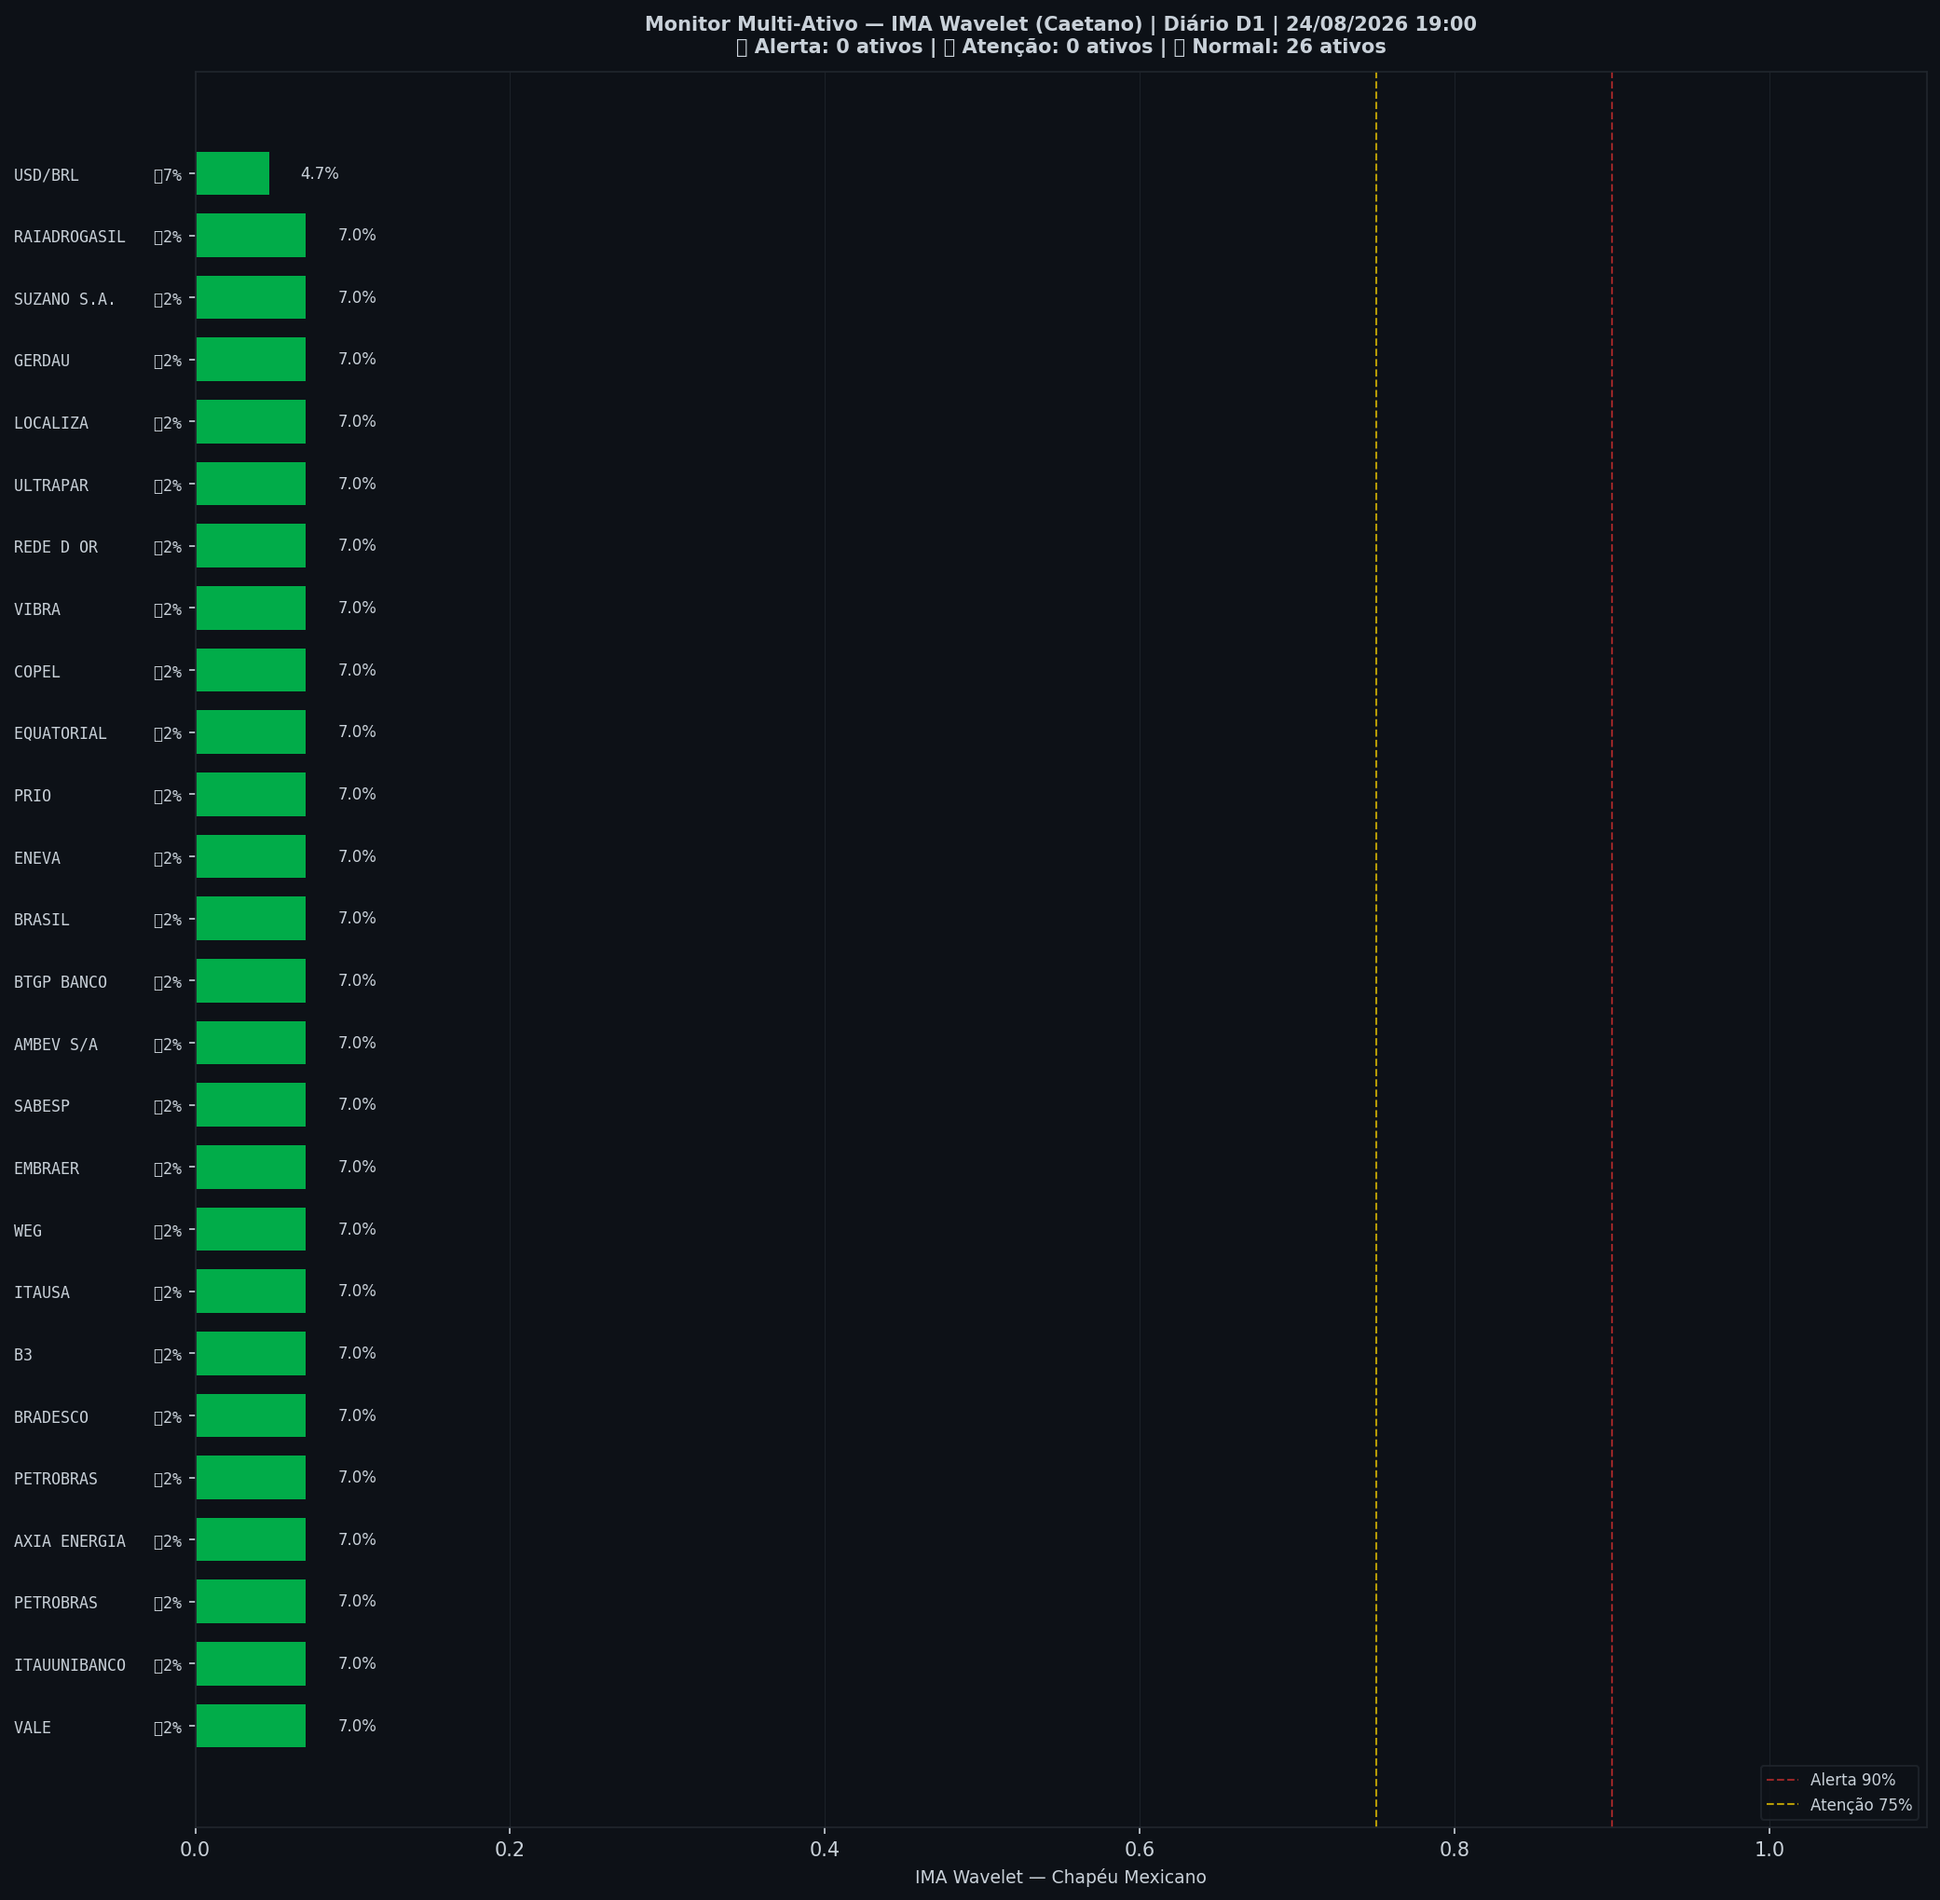
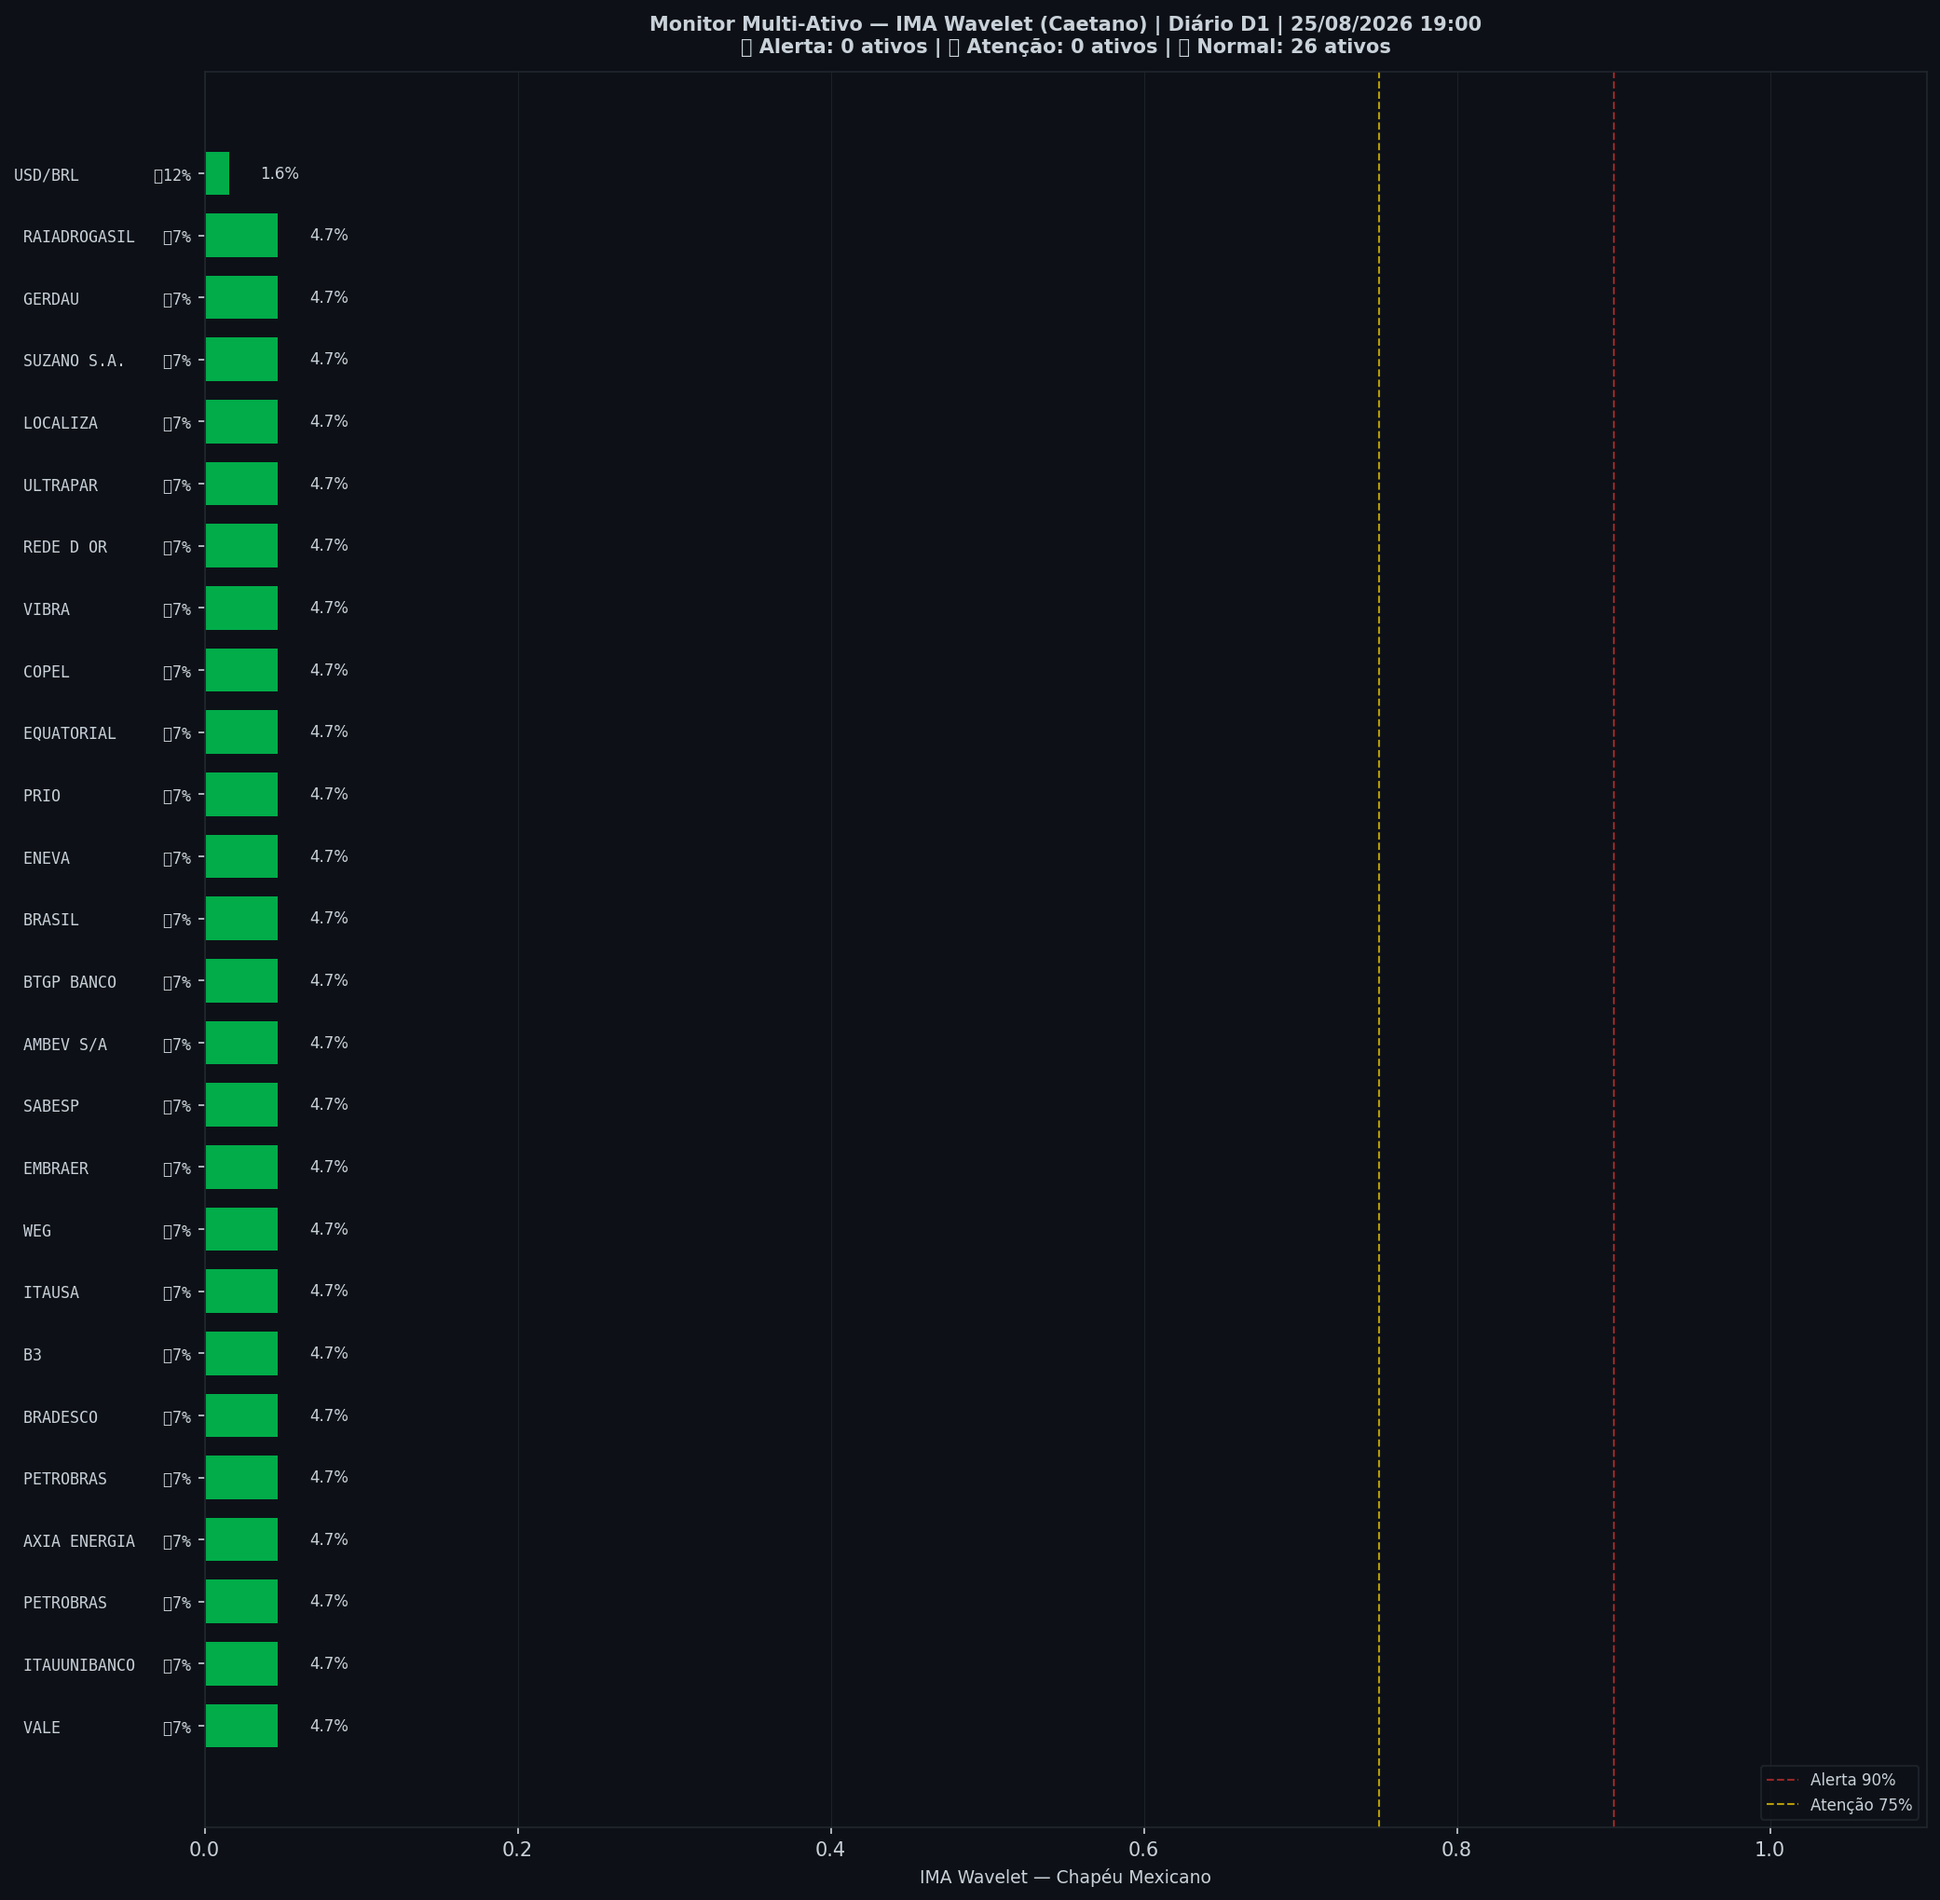
🤖 Auto: Sinal 25/08/2026 19:00

diff --git a/content/diario/2026-08-24.md b/content/diario/2026-08-24.md
@@ -1,0 +1,104 @@
+---
+title: "🟢 Diário 24/08/2026 — VERDE"
+date: 2026-08-25
+tags: [diario]
+---
+
+> [!success] 🟢 **VERDE** — Risco 0% · ＝ +0 p.p. vs leitura anterior
+> `░░░░░░░░░░░░░░░░░░░░`
+> Mercado sem sinais relevantes de estresse.
+
+
+| Indicador | Valor |
+|---|---|
+| 🔴 ζ Crash — severidade da queda em curso | **1%** |
+| 🔵 ζ Entrada — estrutura de fundo | 14% |
+| 🫧 LPPL DS-Confidence | 0% |
+| 📊 Ibovespa | 174.577 pts |
+
+![Gráfico do sinal](../graficos/sinal_diario.png)
+
+## Últimos 30 pregões
+
+| Data | Zona | Risco | IMA Crash | Entrada | LPPL |
+|---|---|---|---|---|---|
+| 2026-08-24 21:00 | 🟢 VERDE | **0%** | 1% | 14% | 0% |
+| 2026-08-23 21:00 | 🟢 VERDE | **0%** | 0% | 21% | 0% |
+| 2026-08-20 21:00 | 🟢 VERDE | **0%** | 0% | 25% | 0% |
+| 2026-08-19 21:00 | 🟢 VERDE | **0%** | 0% | 27% | 0% |
+| 2026-08-18 21:00 | 🟢 VERDE | **0%** | 0% | 27% | 0% |
+| 2026-08-17 21:00 | 🟢 VERDE | **0%** | 0% | 26% | 0% |
+| 2026-08-16 21:00 | 🟢 VERDE | **0%** | 0% | 25% | 0% |
+| 2026-08-13 21:00 | 🟢 VERDE | **0%** | 0% | 23% | 0% |
+| 2026-08-12 21:00 | 🟢 VERDE | **0%** | 0% | 20% | 0% |
+| 2026-08-11 21:00 | 🟢 VERDE | **0%** | 0% | 65% | 0% |
+| 2026-08-10 21:00 | 🟢 VERDE | **0%** | 1% | 62% | 0% |
+| 2026-08-09 21:00 | 🟢 VERDE | **1%** | 2% | 7% | 0% |
+| 2026-08-06 21:00 | 🟢 VERDE | **0%** | 1% | 48% | 0% |
+| 2026-08-05 21:00 | 🟢 VERDE | **0%** | 1% | 50% | 0% |
+| 2026-08-04 21:00 | 🟢 VERDE | **0%** | 0% | 55% | 0% |
+| 2026-08-03 21:00 | 🟢 VERDE | **0%** | 0% | 59% | 0% |
+| 2026-08-02 21:00 | 🟢 VERDE | **0%** | 0% | 62% | 0% |
+| 2026-07-30 21:00 | 🟢 VERDE | **0%** | 0% | 65% | 0% |
+| 2026-07-29 21:00 | 🟢 VERDE | **0%** | 0% | 68% | 0% |
+| 2026-07-28 21:00 | 🟢 VERDE | **0%** | 0% | 69% | 0% |
+| 2026-07-27 21:00 | 🟢 VERDE | **0%** | 1% | 68% | 0% |
+| 2026-07-26 21:00 | 🟢 VERDE | **0%** | 1% | 71% | 0% |
+| 2026-07-23 21:00 | 🟢 VERDE | **0%** | 0% | 71% | 0% |
+| 2026-07-22 21:00 | 🟢 VERDE | **0%** | 0% | 73% | 0% |
+| 2026-07-21 21:00 | 🟢 VERDE | **0%** | 0% | 77% | 0% |
+| 2026-07-20 21:00 | 🟢 VERDE | **0%** | 0% | 80% | 0% |
+| 2026-07-19 21:00 | 🟢 VERDE | **0%** | 1% | 79% | 0% |
+| 2026-07-16 21:00 | 🟢 VERDE | **0%** | 0% | 80% | 0% |
+| 2026-07-15 21:00 | 🟢 VERDE | **0%** | 1% | 80% | 0% |
+| 2026-07-14 21:00 | 🟢 VERDE | **1%** | 2% | 81% | 0% |
+
+## Monitor Multi-Ativo
+
+**0% dos ativos em tensão** (0🔴 0🟡) — quanto mais ativos disparam juntos, mais confiável o sinal.
+
+| Zona | Ativo | Setor | IMA Crash | IMA Entrada |
+|---|---|---|---|---|
+| 🟢 | **VALE** | Mineração | 4.7% | 7.0% |
+| 🟢 | **ITAUUNIBANCO** | Financeiro | 4.7% | 7.0% |
+| 🟢 | **PETROBRAS** | Petróleo | 4.7% | 7.0% |
+| 🟢 | **AXIA ENERGIA** | Energia | 4.7% | 7.0% |
+| 🟢 | **PETROBRAS** | Petróleo | 4.7% | 7.0% |
+| 🟢 | **BRADESCO** | Financeiro | 4.7% | 7.0% |
+| 🟢 | **B3** | Financeiro | 4.7% | 7.0% |
+| 🟢 | **ITAUSA** | Financeiro | 4.7% | 7.0% |
+| 🟢 | **WEG** | Industrial | 4.7% | 7.0% |
+| 🟢 | **EMBRAER** | Outros | 4.7% | 7.0% |
+| 🟢 | **SABESP** | Saneamento | 4.7% | 7.0% |
+| 🟢 | **AMBEV S/A** | Consumo | 4.7% | 7.0% |
+| 🟢 | **BTGP BANCO** | Financeiro | 4.7% | 7.0% |
+| 🟢 | **BRASIL** | Financeiro | 4.7% | 7.0% |
+| 🟢 | **ENEVA** | Energia | 4.7% | 7.0% |
+| 🟢 | **PRIO** | Petróleo | 4.7% | 7.0% |
+| 🟢 | **EQUATORIAL** | Energia | 4.7% | 7.0% |
+| 🟢 | **COPEL** | Energia | 4.7% | 7.0% |
+| 🟢 | **VIBRA** | Energia | 4.7% | 7.0% |
+| 🟢 | **REDE D OR** | Saúde | 4.7% | 7.0% |
+| 🟢 | **ULTRAPAR** | Outros | 4.7% | 7.0% |
+| 🟢 | **LOCALIZA** | Aluguel | 4.7% | 7.0% |
+| 🟢 | **SUZANO S.A.** | Papel/Celulose | 4.7% | 7.0% |
+| 🟢 | **GERDAU** | Siderurgia | 4.7% | 7.0% |
+| 🟢 | **RAIADROGASIL** | Outros | 4.7% | 7.0% |
+| 🟢 | **USD/BRL** | Câmbio | 1.6% | 12.5% |
+
+![Monitor multi-ativo](../graficos/multi_diario.png)
+
+*Página atualizada em 25/08/2026 19:00 BRT (leitura da barra de 2026-08-24 BRT).*
+
+> [!info]- Como interpretar (clique para expandir)
+> - **ζ Crash**: fração dos coeficientes wavelet acima do corte (Caetano & Yoneyama 2009). Escala absoluta: ζ=0,90 = 90% dos coeficientes anômalos — historicamente, quedas com ζ≥0,90 foram mais fundas e mais longas. **Mede a severidade do movimento em curso, não prevê o início da queda.**
+> - **ζ Entrada**: coeficientes negativos além do corte — estrutura de fundo, possível região de compra.
+> - **LPPL DS-Confidence**: fração de janelas (60–504 pregões) em que o modelo de bolha de Sornette produz um ajuste válido. 30% já é relevante; acima de 50% é forte evidência de estrutura de bolha.
+> - **Zonas com histerese**: o sinal só muda de zona ao cruzar o limiar de entrada, e só volta ao cruzar o de saída — evita flip-flop diário.
+
+
+---
+*Sinal de Crise B3 v4 · IMA Wavelet ([Caetano & Yoneyama, Physica-A 2007](https://doi.org/10.1016/j.physa.2007.03.054)) + LPPL DS-Confidence (Sornette, ETH-Zurich) · [Metodologia](metodologia) · [Histórico](historico)*
+
+> [!quote]- Aviso
+> Estudo acadêmico. Não constitui recomendação de investimento.

diff --git a/content/index.md b/content/index.md
@@ -8,19 +8,19 @@ tags: [home]
 
 Monitoramento diário e intraday do Ibovespa — **IMA Wavelet** (Prof. Marco Antonio Leonel Caetano, ITA/INSPER) + **LPPL DS-Confidence** (Prof. Didier Sornette, ETH-Zurich).
 
-*Última atualização: 25/08/2026 17:30 BRT · ^BVSP · Intraday 15min · v4*
+*Última atualização: 25/08/2026 19:00 BRT · ^BVSP · Diário D1 · v4*
 
-> [!success] 🟢 **VERDE** — Risco 7% · ▲ +2 p.p. vs leitura anterior
-> `█░░░░░░░░░░░░░░░░░░░`
+> [!success] 🟢 **VERDE** — Risco 0% · ＝ +0 p.p. vs leitura anterior
+> `░░░░░░░░░░░░░░░░░░░░`
 > Mercado sem sinais relevantes de estresse.
 
 
 | Indicador | Valor |
 |---|---|
-| 🔴 ζ Crash — severidade da queda em curso | **7%** |
-| 🔵 ζ Entrada — estrutura de fundo | 0% |
+| 🔴 ζ Crash — severidade da queda em curso | **1%** |
+| 🔵 ζ Entrada — estrutura de fundo | 14% |
 | 🫧 LPPL DS-Confidence | 0% |
-| 📊 Ibovespa | 174.668 pts |
+| 📊 Ibovespa | 174.577 pts |
 
 **Multi-ativo:** 0% em tensão (0🔴 0🟡 de 26 ativos)
 
@@ -32,8 +32,13 @@ Monitoramento diário e intraday do Ibovespa — **IMA Wavelet** (Prof. Marco An
 
 | Data | Zona | Risco | IMA | LPPL |
 |---|---|---|---|---|
-| [25 Aug 2026](diario/2026-08-25) | 🟢 VERDE | **7%** | 7% | 0% |
-| [24 Aug 2026](diario/2026-08-24) | 🟢 VERDE | **0%** | 0% | 0% |
+| [24 Aug 2026](diario/2026-08-24) | 🟢 VERDE | **0%** | 1% | 0% |
+| [23 Aug 2026](diario/2026-08-23) | 🟢 VERDE | **0%** | 0% | 0% |
+| [20 Aug 2026](diario/2026-08-20) | 🟢 VERDE | **0%** | 0% | 0% |
+| [19 Aug 2026](diario/2026-08-19) | 🟢 VERDE | **0%** | 0% | 0% |
+| [18 Aug 2026](diario/2026-08-18) | 🟢 VERDE | **0%** | 0% | 0% |
+| [17 Aug 2026](diario/2026-08-17) | 🟢 VERDE | **0%** | 0% | 0% |
+| [16 Aug 2026](diario/2026-08-16) | 🟢 VERDE | **0%** | 0% | 0% |
 
 ## Navegação
 

diff --git a/content/historico.md b/content/historico.md
@@ -7,6 +7,7 @@ tags: [historico]
 
 | Data | Modo | Zona | Risco | IMA | LPPL |
 |---|---|---|---|---|---|
+| 2026-08-24 | diario | 🟢 VERDE | 0% | 1% | 0% |
 | 2026-08-25 16:45 | intraday | 🟢 VERDE | 7% | 7% | 0% |
 | 2026-08-25 16:30 | intraday | 🟢 VERDE | 5% | 5% | 0% |
 | 2026-08-25 16:15 | intraday | 🟢 VERDE | 3% | 3% | 0% |
